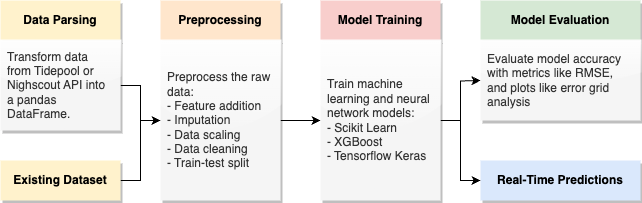
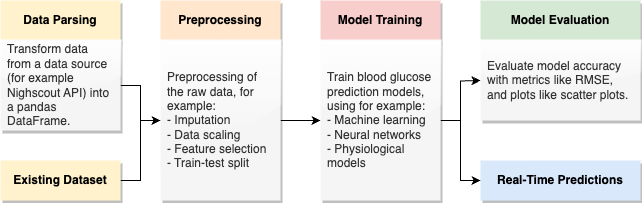
Updated REAMDE

diff --git a/glupredkit/cli.py b/glupredkit/cli.py
@@ -174,7 +174,7 @@ def calculate_metrics(models, metrics):
     if models is None:
         models = helpers.list_files_in_directory(trained_models_path)
     else:
-        models = [model + ".pkl" for model in models]
+        models = helpers.split_string(models)
 
     # Prepare a list of metrics
     metrics = helpers.split_string(metrics)
@@ -243,7 +243,7 @@ def draw_plots(models, plots, is_real_time, start_date, end_date, carbs, insulin
     if models is None:
         models = helpers.list_files_in_directory('data/trained_models/')
     else:
-        models = [model + ".pkl" for model in models]
+        models = helpers.split_string(models)
 
     click.echo(f"Calculating predictions...")
     models_data = []

diff --git a/glupredkit/plots/one_prediction.py b/glupredkit/plots/one_prediction.py
@@ -135,10 +135,8 @@ class Plot(BasePlot):
             break
 
         if unit_config_manager.use_mgdl:
-            plt.ylim(0, 250)
             plt.axhspan(70, 180, facecolor='blue', alpha=0.2)
         else:
-            plt.ylim(0, unit_config_manager.convert_value(250))
             plt.axhspan(unit_config_manager.convert_value(70), unit_config_manager.convert_value(180),
                         facecolor='blue', alpha=0.2)
 

diff --git a/README.md b/README.md
@@ -98,8 +98,15 @@ You should now have the following file structure in your desired folder:
 
 Now, you're ready to use the Command Line Interface (CLI) for processing and predicting blood glucose levels.
 
+
 Note that the prefix for all the commands will be either `glupredkit` for regular users, or `python -m glupredkit.cli` for developers.
+The `glupredkit` prefix will also work while developing, but changes made to the code will only be directly reflected when
+using the `python -m glupredkit.cli` prefix.
 In the examples below we will use `glupredkit`.
+
+The following figure is an overview over all the CLI commands and how they interact with the files in the folders.
+<!-- ![img.png](https://github.com/miriamkw/GluPredKit/figures/pipeline_overview.png) -->
+![img.png](figures/CLI_overview.png)
 
 
 ### Parsing Data
@@ -150,7 +157,7 @@ Upon executing `glupredkit generate_config`, you will be sequentially prompted f
 ```
 glupredkit train_model MODEL_NAME CONFIG_FILE_NAME
 ```
-- `model`: Name of the model file (without .py) to be trained. The file name must exist in `src/models/`.
+- `model`: Name of the model file (without .py) to be trained. The file name must exist in `glupredkit/models/`.
 - `config-file-name`: Name of the configuration to train the model (without .json). The file name must exist in `data/configurations/`.
 
 #### Example
@@ -163,11 +170,11 @@ glupredkit train_model ridge all_features_24_time_lags
 **Description**: Evaluate one or more trained models by computing metrics (for example RMSE). The results will be stored in `results/reports`.
 
 ```
-glupredkit calculate_metrics [--model-files MODEL_FILE_NAMES] [--metrics METRICS]
+glupredkit calculate_metrics [--models MODEL_FILE_NAMES] [--metrics METRICS]
 ```
 
-- `--model-files` (Optional): List of trained model filenames from `data/trained_models/` (without .pkl), separated by comma. Default is all the models.
-- `--metrics` (Optional): List of metrics from `src/metrics/` to be computed, separated by comma. Default is all the metrics.
+- `--models` (Optional): List of trained model filenames from `data/trained_models/` (with .pkl), separated by comma. Default is all the models.
+- `--metrics` (Optional): List of metrics from `glupredkit/metrics/` to be computed, separated by comma. Default is all the metrics.
 
 #### Example
 ```
@@ -194,13 +201,27 @@ glupredkit draw_plots
 glupredkit draw_plots --models model1,model2 --plots scatter_plot --start-date 25-10-2023/14:30 --end-date 30-10-2023/16:45
 ```
 
+### Real-Time Prediction Plots
+
+**Description**: To achieve real-time predictions, it is necessary to have a data-source that provides real-time data. 
+Nightscout API can be a real-time API if the insulin management system is uploading data continuously (which is, to our knowledge,
+only possible to achieve with open-source insulin management systems). The steps to draw real-time plots are the following:
+1. Train one or more models using the steps above.
+2. Parse some up-to-date data, using for example the nightscout-parser.
+3. Update the model configurations to have the data from (2) as a data source for predictions.
+4. Call the `draw_plots` command with `--plots one_prediction` and `--is-real-time True` 
+
+
 ---
-### Setting Configurations
+### Setting Unit of Evaluations
+
+**Description**: Set whether to use mg/dL or mmol/L for units. You can change this after models are trained,
+without retraining the models. This only has an impact on the model evaluation (`calculate_metrics` or `draw_plots`).
 
 ```
-glupredkit set_config --use-mgdl [True|False]
+glupredkit set_unit --use-mgdl [True|False]
 ```
-**Description**: Set whether to use mg/dL or mmol/L for units. 
+
 
 #### Example
 ```
@@ -214,20 +235,19 @@ That's it! You can now run the desired command with the mentioned arguments. Alw
 
 
 
-
-
-
-
-
 ## Contributing with code
 
 In this section we will explain how you can contribute with enhancing the implementation of parsers, preprocessors, models, evaluation metrics and plots.
+
+The following figure is a class diagram of the main components in GluPredKit.
+<!-- ![img.png](https://github.com/miriamkw/GluPredKit/figures/pipeline_overview.png) -->
+![img.png](figures/UML_diagram.png)
 
 ### Contributing With New Components
 
 Regardless of the component type you're contributing, follow these general steps:
 
-1. Navigate to the corresponding directory in `src/`.
+1. Navigate to the corresponding directory in `glupredkit/`.
 2. Create a new Python file for your component.
 3. Implement your component class, inheriting from the appropriate base class.
 4. Add necessary tests and update the documentation.
@@ -236,27 +256,44 @@ Here are specifics for various component types:
 
 #### Parsers
 Refers to the fetching of data from data sources (for example Nighscout, Tidepool or Apple Health), and to process the data into the same table. 
-   - Directory: `src/parsers`
-   - Base Class: `BaseParser`
+- Directory: `glupredkit/parsers`
+- Base Class: `BaseParser`
+
+All the parsers should give an output of the same format. Some essential details are:
+- We use pandas DataFrames as output.
+- All datatypes are resampled into 5-minute intervals. If the sample rate is more frequent, the data should be aggregated with for example sum or mean values. If less frequent, NaN values should be used. Interpolation is handled in the preprocessor.
+- The index-column of the dataframe should be the datetime of the sample.
+- Blood glucose values should have the column name "CGM".
+- Carbohydrate intake values should have the column name "carbs".
+- Insulin infusion values should have the column name "insulin". 
+- Additional columns and column names are optional.
 
 #### Preprocessors
-Refers to the preprocessing of the raw datasets from the parsing-stage. This includes imputation, feature addition, removing NaN values, splitting data etc.
-   - Directory: `src/preprocessors`
-   - Base Class: `BasePreprocessor`
+Refers to the preprocessing of the raw datasets from the parsing-stage. This includes imputation, feature transformation, splitting data etc.
+- Directory: `glupredkit/preprocessors`
+- Base Class: `BasePreprocessor`
+
+Note that time-lagged features and other library-specific data-processing is handled in the model implementations, in the method `process_data` in `base_model.py`. 
+That is because different libraries like scikit-learn, Keras or PyTorch, or model approaches might expect different data-input formats.
+For example, time-lagged features might be stored in different ways as in separate columns or as lists in a single column.
 
 #### Machine Learning Prediction Models
 Refers to using preprocessed data to train a blood glucose prediction model.
-   - Directory: `src/models`
-   - Base Class: `BaseModel`
+- Directory: `glupredkit/models`
+- Base Class: `BaseModel`
+
+The method `process_data` in `base_model.py` handles addition of time-lagged features, removal of NaN values and other 
+library- or model-specific configurations for the model data input format. 
 
 #### Evaluation Metrics
-Refers to different 'scores' to describing the accuracy of the predictions of a blood glucose prediction model.    - Directory: `src/metrics`
-   - Base Class: `BaseMetric`
+Refers to different 'scores' to describing the accuracy of the predictions of a blood glucose prediction model.    
+- Directory: `glupredkit/metrics`
+- Base Class: `BaseMetric`
 
 #### Evaluation Plots
 Different types of plots that can illustrate blood glucose predictions together with actual measured values.
-   - Directory: `src/plots`
-   - Base Class: `BasePlot`
+- Directory: `glupredkit/plots`
+- Base Class: `BasePlot`
 
 Remember to adhere to our coding and documentation standards when contributing!
 
@@ -269,7 +306,7 @@ To run the tests, write `python tests/test_all.py` in the terminal.
 * Datetimes that are fetched from Tidepool API are received converted to timezone offset +00:00. There is no way to get information about the original timezone offset from this data source.
 * Bolus doses that are fetched from Tidepool API does not include the end date of the dose delivery.
 * Metrics assumes mg/dL for the input.
-* Note that the difference between how basal rates are registered. Bolus doses are however consistent across. Hopefully it is negligable.
+* Note that the difference between how basal rates are registered. Bolus doses are however consistent across. Hopefully it is negligible.
 
 
 ## License
